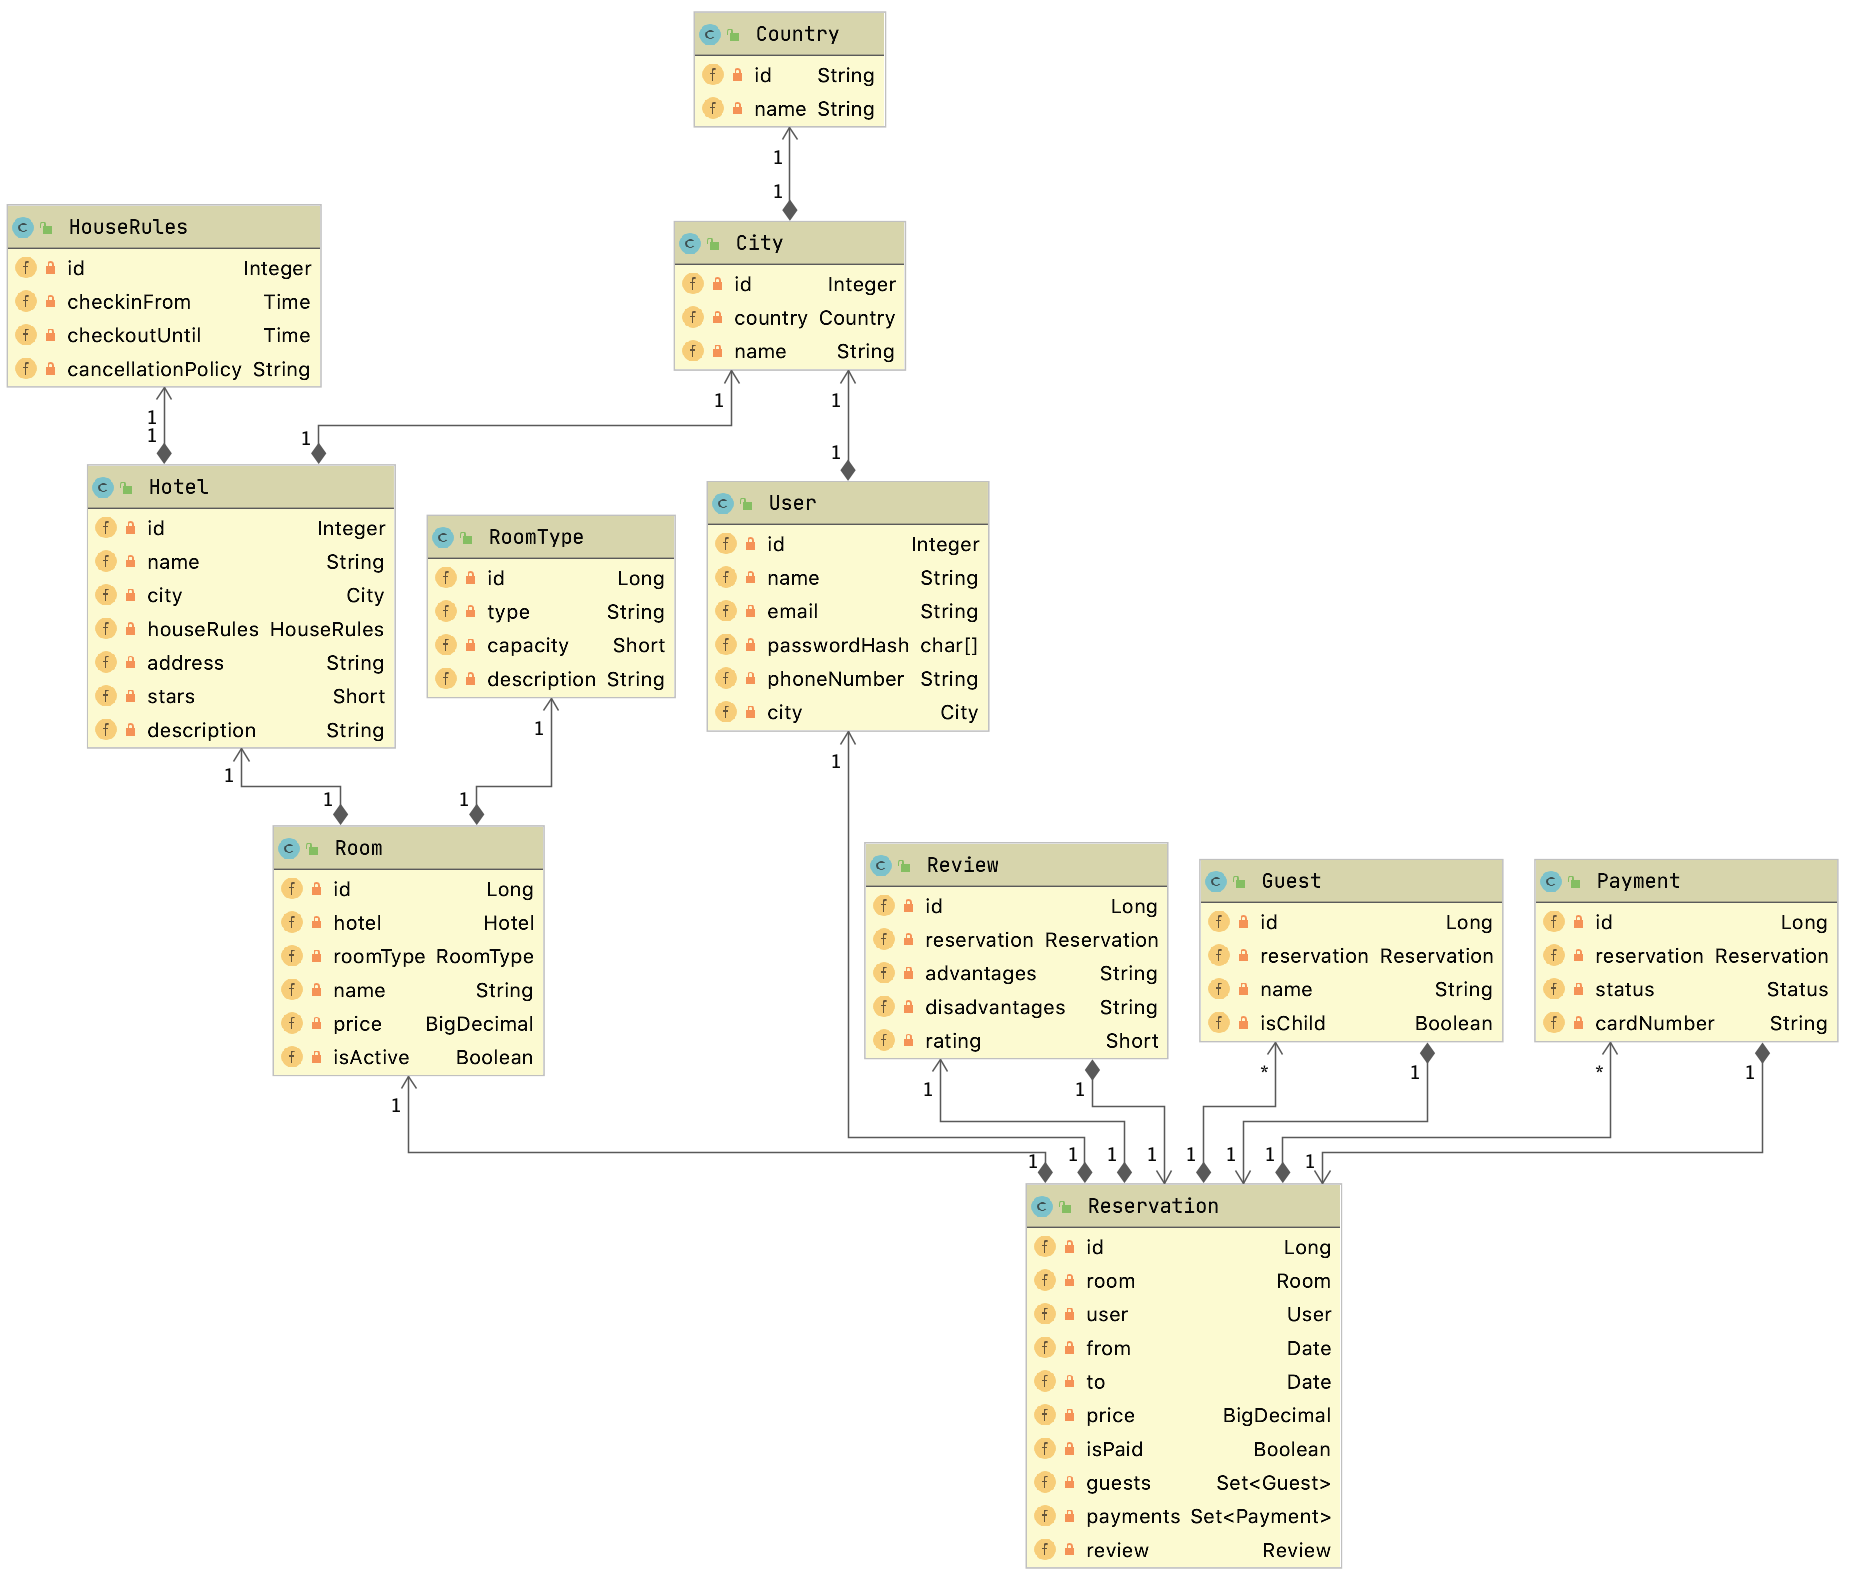
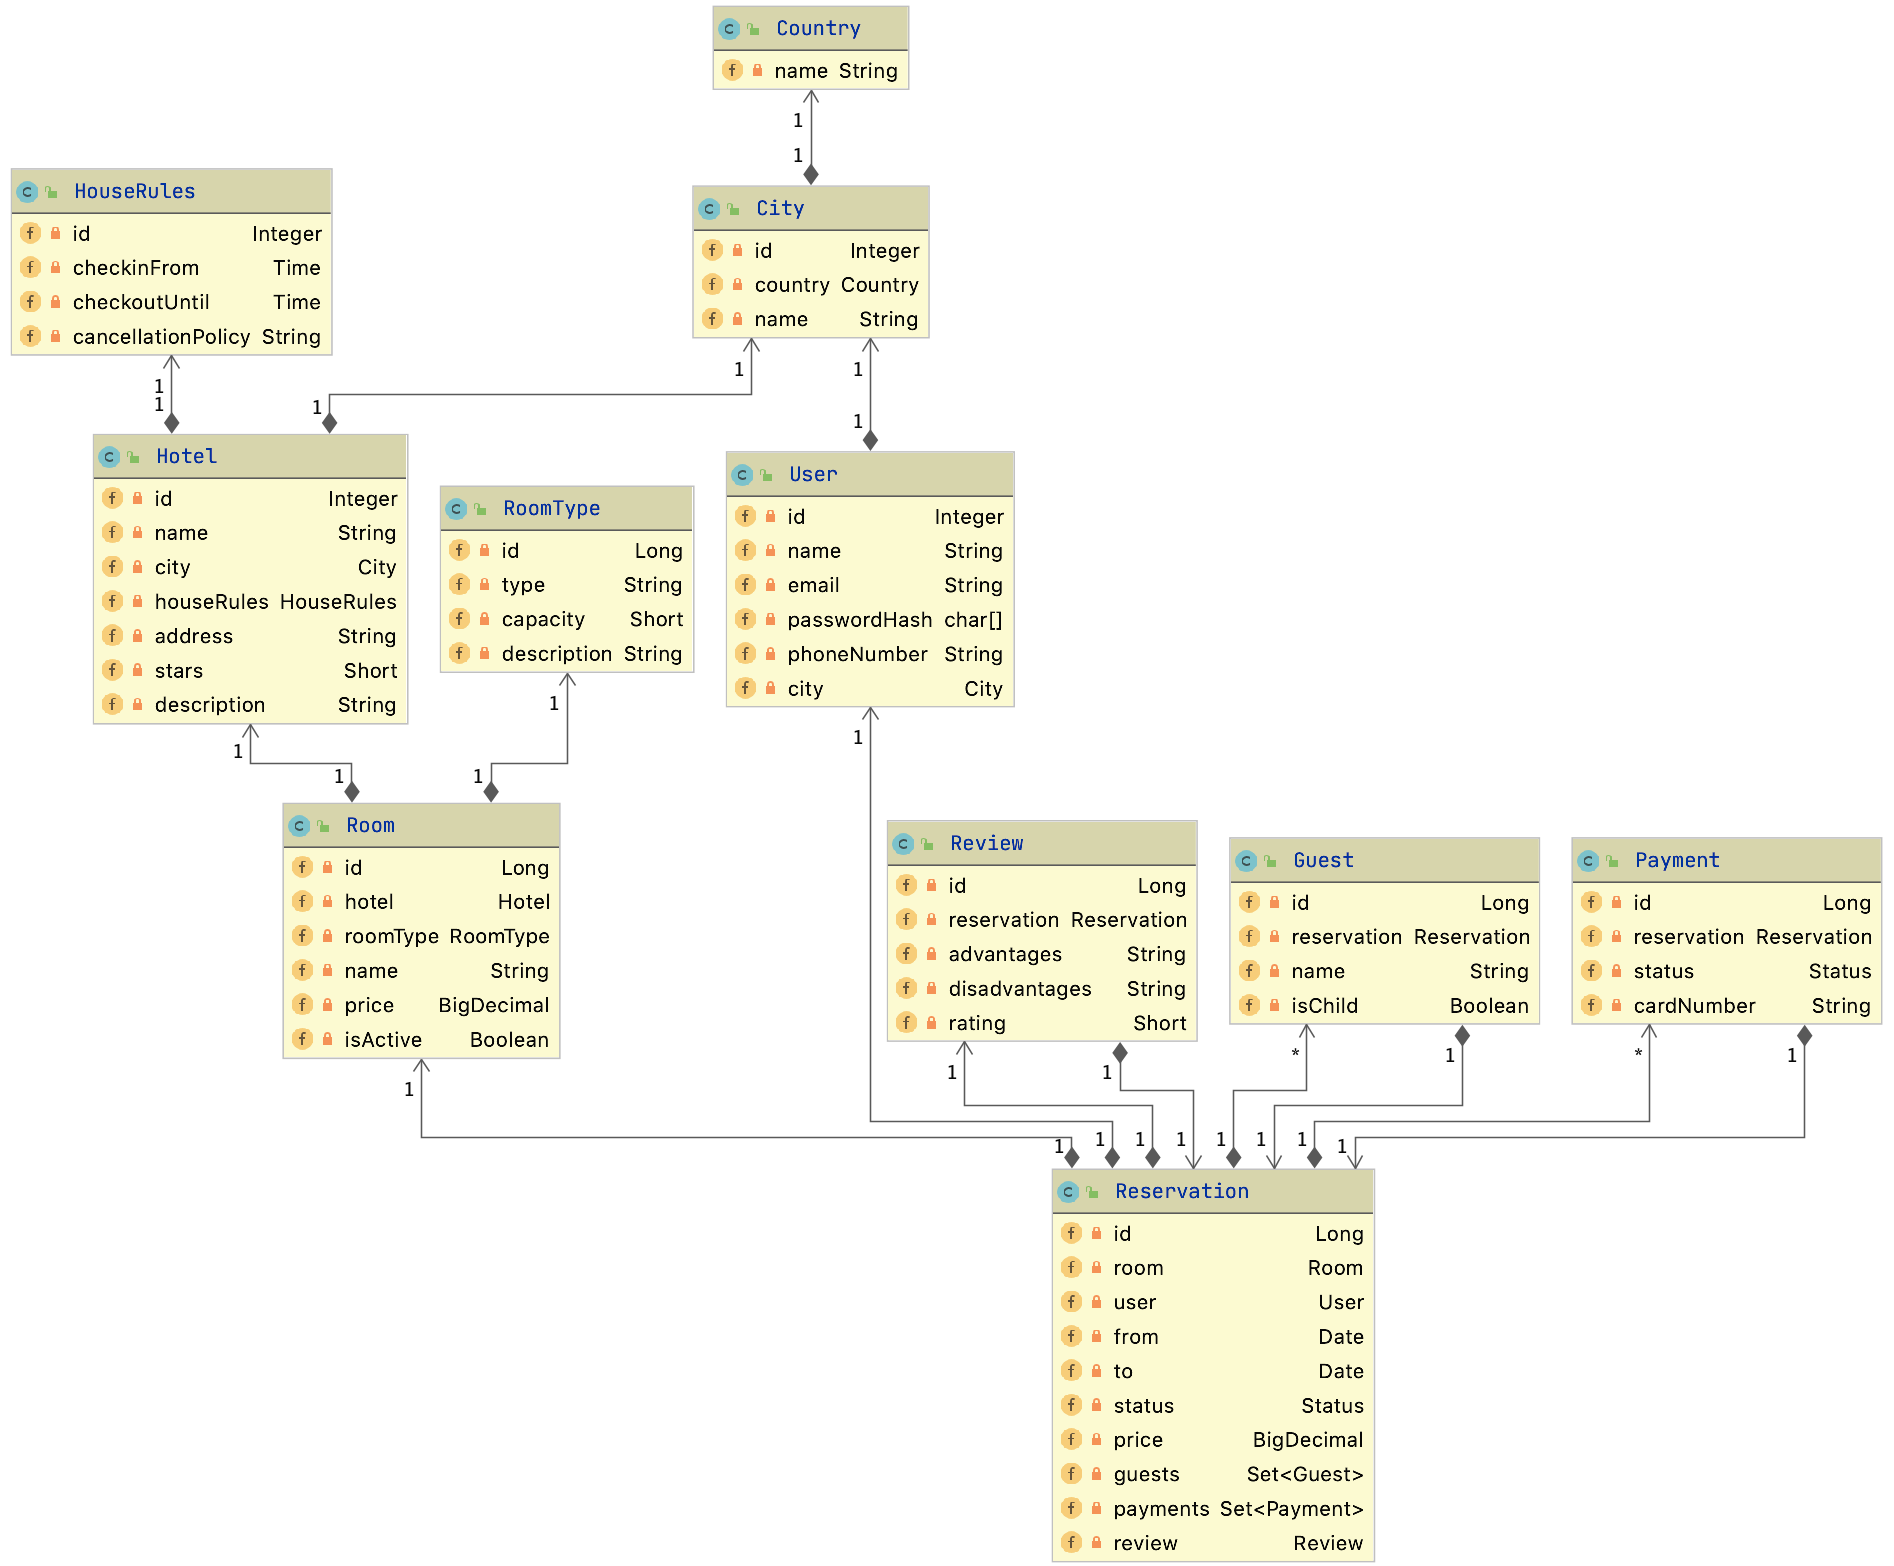
fix classes

Changed region(s): [[0.0, 0.0, 0.9989, 1.0]]

diff --git a/src/main/java/com/vaddya/booking/model/Reservation.java b/src/main/java/com/vaddya/booking/model/Reservation.java
@@ -20,7 +20,6 @@ import org.hibernate.annotations.ColumnTransformer;
 @Entity
 @Data
 public class Reservation {
-
     public enum Status {
         PENDING,
         PAYMENT,
@@ -46,12 +45,11 @@ public class Reservation {
     @Column(name = "`to`")
     private Date to;
 
+    private Status status;
+
     @Column(columnDefinition = "money")
     @ColumnTransformer(read = "price::money::numeric", write = "?::numeric::money")
     private BigDecimal price;
-
-    @Column(name = "is_paid")
-    private Boolean isPaid;
 
     @OneToMany(mappedBy = "reservation", cascade = CascadeType.ALL)
     private Set<Guest> guests;

diff --git a/src/main/java/com/vaddya/booking/model/User.java b/src/main/java/com/vaddya/booking/model/User.java
@@ -17,7 +17,6 @@ import lombok.Data;
 @Table(name = "\"user\"")
 @Data
 public class User {
-
     @Id
     @GeneratedValue(strategy = GenerationType.IDENTITY, generator = "user_id_seq")
     @SequenceGenerator(name = "user_id_seq", sequenceName = "user_id_seq", allocationSize = 1)

diff --git a/src/main/java/com/vaddya/booking/model/Room.java b/src/main/java/com/vaddya/booking/model/Room.java
@@ -22,7 +22,6 @@ import org.hibernate.annotations.ColumnTransformer;
 @Entity
 @Data
 public class Room {
-
     @Id
     @GeneratedValue(strategy = GenerationType.IDENTITY)
     private Long id;

diff --git a/src/main/java/com/vaddya/booking/model/HouseRules.java b/src/main/java/com/vaddya/booking/model/HouseRules.java
@@ -14,7 +14,6 @@ import lombok.Data;
 @Table(name = "house_rules")
 @Data
 public class HouseRules {
-
     @Id
     @GeneratedValue(strategy = GenerationType.IDENTITY)
     private Integer id;

diff --git a/src/main/java/com/vaddya/booking/model/RoomType.java b/src/main/java/com/vaddya/booking/model/RoomType.java
@@ -12,7 +12,6 @@ import lombok.Data;
 @Table(name = "room_type")
 @Data
 public class RoomType {
-
     @Id
     @GeneratedValue(strategy = GenerationType.IDENTITY)
     private Long id;

diff --git a/src/main/java/com/vaddya/booking/model/Hotel.java b/src/main/java/com/vaddya/booking/model/Hotel.java
@@ -12,7 +12,6 @@ import lombok.Data;
 @Entity
 @Data
 public class Hotel {
-
     @Id
     @GeneratedValue(strategy = GenerationType.IDENTITY)
     private Integer id;

diff --git a/src/main/java/com/vaddya/booking/model/City.java b/src/main/java/com/vaddya/booking/model/City.java
@@ -12,7 +12,6 @@ import lombok.Data;
 @Entity
 @Data
 public class City {
-
     @Id
     @GeneratedValue(strategy = GenerationType.IDENTITY)
     private Integer id;

diff --git a/src/main/java/com/vaddya/booking/model/Review.java b/src/main/java/com/vaddya/booking/model/Review.java
@@ -12,7 +12,6 @@ import lombok.Data;
 @Entity
 @Data
 public class Review {
-
     @Id
     @GeneratedValue(strategy = GenerationType.IDENTITY)
     private Long id;

diff --git a/src/main/java/com/vaddya/booking/model/Guest.java b/src/main/java/com/vaddya/booking/model/Guest.java
@@ -15,7 +15,6 @@ import lombok.Data;
 @Entity
 @Data
 public class Guest {
-
     @Id
     @GeneratedValue(strategy = GenerationType.IDENTITY)
     private Long id;

diff --git a/src/main/java/com/vaddya/booking/model/Payment.java b/src/main/java/com/vaddya/booking/model/Payment.java
@@ -13,7 +13,6 @@ import lombok.Data;
 @Entity
 @Data
 public class Payment {
-
     public enum Status {
         SUCCEEDED,
         FAILED,

diff --git a/src/main/java/com/vaddya/booking/model/Country.java b/src/main/java/com/vaddya/booking/model/Country.java
@@ -8,9 +8,6 @@ import lombok.Data;
 @Entity
 @Data
 public class Country {
-
     @Id
-    private String id;
-
     private String name;
 }
